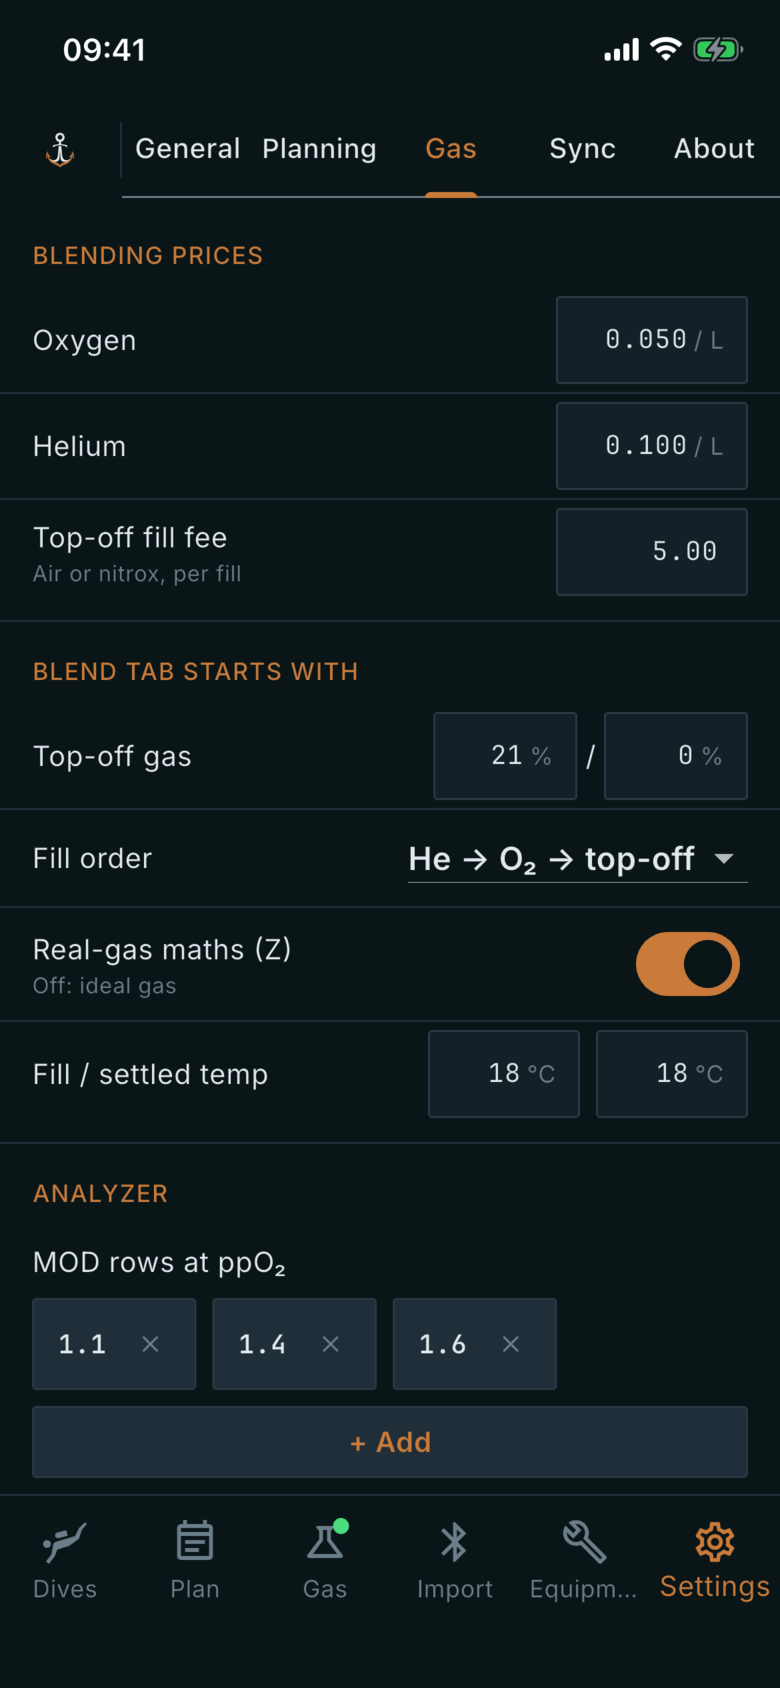
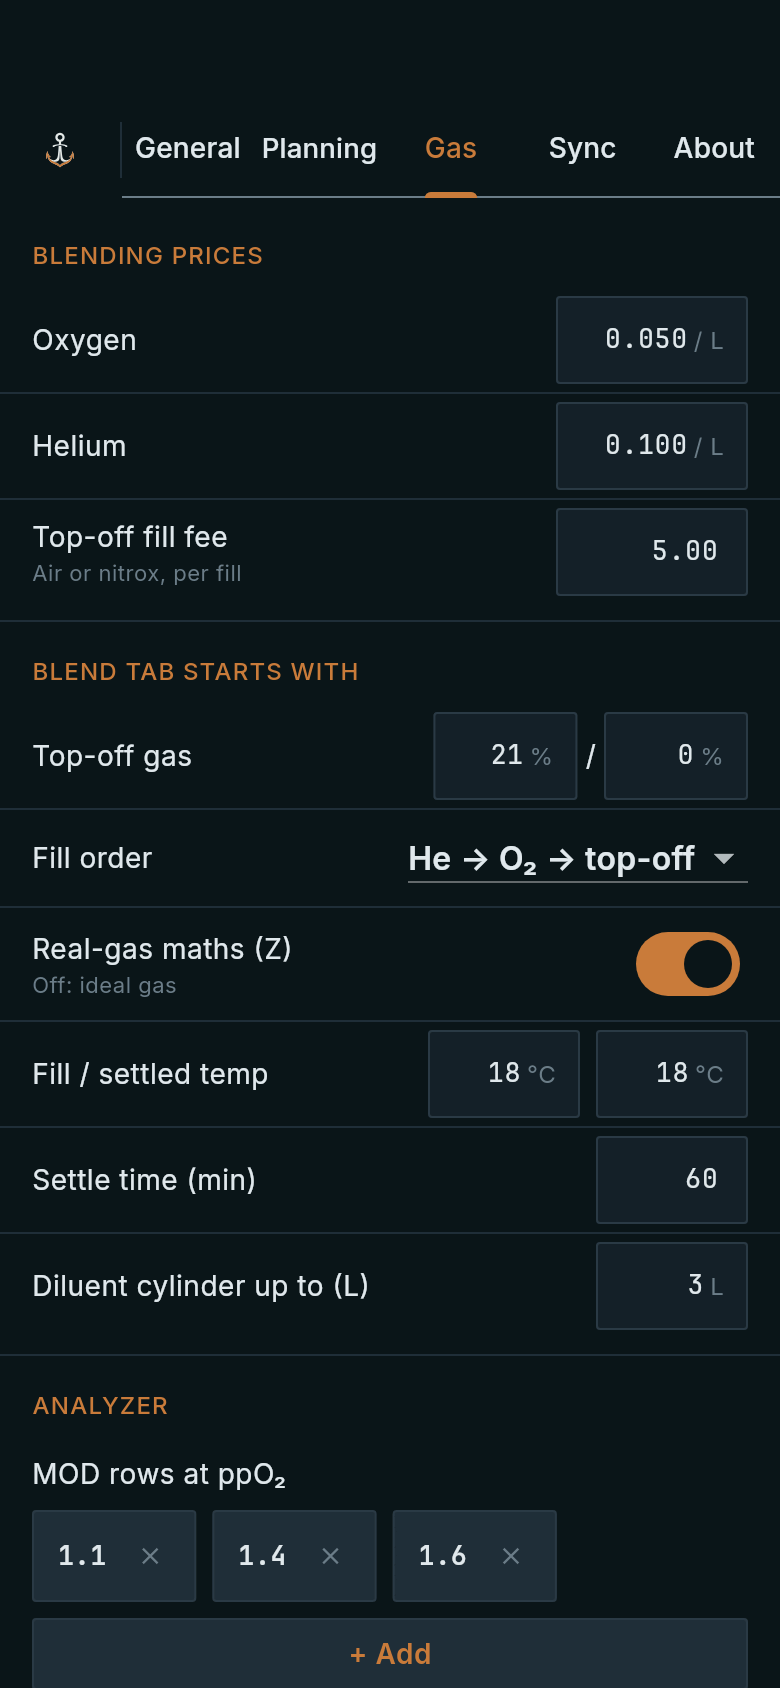
chore(release): 1.2.0, with the Gas settings screenshots retaken (#271)
Bumps the version to 1.2.0+50 for the testers build.

The manual's Gas settings page gets two fresh screenshots (the old one
predated Settle time, Diluent cylinder and the Label printer section) and
a sheet of every label type at every size. The screenshots come from an
opt-in widget test, test/manual_screenshots, run with
--dart-define=MANUAL_SCREENSHOTS=true; a plain flutter test skips it.

diff --git a/test/manual_screenshots/settings_gas_screenshot_test.dart b/test/manual_screenshots/settings_gas_screenshot_test.dart
@@ -1,0 +1,140 @@
+// Renders the user-manual screenshots of Settings -> Gas from a widget test,
+// for when no iPhone simulator is at hand (Linux CI, a machine without a Mac).
+//
+// Skipped unless opted in, so a plain `flutter test` writes no files:
+//
+//   flutter test test/manual_screenshots \
+//     --dart-define=MANUAL_SCREENSHOTS=true
+//
+// Writes docs/user/images/settings-gas-1.png (top of the tab) and
+// settings-gas-2.png (Analyzer and the whole Label printer section), at
+// 390 x 844 logical px, 2x, with the app's real fonts and default dark theme.
+// The Label printer section is shown without a printer, so it reads
+// "No printer set up". There is no status bar or bottom navigation.
+import 'dart:io';
+import 'dart:ui' as ui;
+
+import 'package:ccrlogger/label_printer/label_printer.dart';
+import 'package:ccrlogger/labels/label_print_service.dart';
+import 'package:ccrlogger/ui/notifiers/settings_notifier.dart';
+import 'package:ccrlogger/ui/screens/settings/gas_tab.dart';
+import 'package:ccrlogger/ui/screens/settings_screen.dart';
+import 'package:ccrlogger/ui/theme/app_themes.dart';
+import 'package:ccrlogger/ui/widgets/label_printer_settings_section.dart';
+import 'package:flutter/material.dart';
+import 'package:flutter/rendering.dart';
+import 'package:flutter/services.dart';
+import 'package:flutter_test/flutter_test.dart';
+import 'package:shared_preferences/shared_preferences.dart';
+
+const _enabled = bool.fromEnvironment('MANUAL_SCREENSHOTS');
+const _outDir = 'docs/user/images';
+
+/// iPhone 14 / 15 logical size and top safe area.
+const _size = Size(390, 844);
+const _topInset = 47.0;
+const _pixelRatio = 2.0;
+
+class _NoScanner implements LabelPrinterScanner {
+  @override
+  Stream<List<FoundLabelPrinter>> scan({
+    Duration timeout = const Duration(seconds: 10),
+  }) => const Stream.empty();
+
+  @override
+  Future<void> stop() async {}
+}
+
+Future<void> _loadFonts() async {
+  for (final (family, asset) in [
+    ('Inter', 'fonts/Inter-VariableFont.ttf'),
+    // Text without a font family (the tab labels) falls back to Roboto,
+    // which flutter_test maps to boxes. On an iPhone it is the system font;
+    // Inter is the nearest thing the app ships.
+    ('Roboto', 'fonts/Inter-VariableFont.ttf'),
+    ('JetBrainsMono', 'fonts/JetBrainsMono-VariableFont.ttf'),
+  ]) {
+    await (FontLoader(family)..addFont(rootBundle.load(asset))).load();
+  }
+  // The test asset bundle carries the Material icon font when
+  // uses-material-design is on.
+  await (FontLoader('MaterialIcons')
+        ..addFont(rootBundle.load('fonts/MaterialIcons-Regular.otf')))
+      .load();
+}
+
+void main() {
+  // Opt-in tool, not a check: skipped unless MANUAL_SCREENSHOTS is defined.
+  testWidgets('Settings -> Gas manual screenshots', (tester) async {
+    await _loadFonts();
+    SharedPreferences.setMockInitialValues({});
+    final settings = SettingsNotifier();
+    await settings.load();
+    final labels = LabelPrintService(
+      render: (label, size, rotate) => throw UnimplementedError(),
+      printerFor: (id) => throw UnimplementedError(),
+      scanner: _NoScanner(),
+      printerId: () => null,
+      use14ForDeeperMixes: () => settings.labelUse14ForDeeperMixes,
+    );
+
+    tester.view
+      ..physicalSize = _size * _pixelRatio
+      ..devicePixelRatio = _pixelRatio;
+    addTearDown(tester.view.reset);
+
+    final boundary = GlobalKey();
+    await tester.pumpWidget(
+      RepaintBoundary(
+        key: boundary,
+        child: MaterialApp(
+          debugShowCheckedModeBanner: false,
+          theme: AppThemes.byId(null).themeData,
+          builder: (context, child) => MediaQuery(
+            data: MediaQuery.of(
+              context,
+            ).copyWith(padding: const EdgeInsets.only(top: _topInset)),
+            child: child!,
+          ),
+          home: SettingsScreen(
+            notifier: settings,
+            onHome: () {},
+            labelPrinting: labels,
+          ),
+        ),
+      ),
+    );
+    await tester.tap(find.byKey(const ValueKey('settings-tab-gas')));
+    await tester.pumpAndSettle();
+
+    Future<void> shoot(String name) => tester.runAsync(() async {
+      final obj =
+          boundary.currentContext!.findRenderObject()! as RenderRepaintBoundary;
+      final image = await obj.toImage(pixelRatio: _pixelRatio);
+      final bytes = await image.toByteData(format: ui.ImageByteFormat.png);
+      File('$_outDir/$name').writeAsBytesSync(bytes!.buffer.asUint8List());
+    });
+
+    await shoot('settings-gas-1.png');
+
+    // The tab is a lazy list: scroll to its end so the Label printer section
+    // is built.
+    final list = find
+        .descendant(
+          of: find.byType(GasSettingsTab),
+          matching: find.byType(Scrollable),
+        )
+        .first;
+    await tester.drag(list, const Offset(0, -5000));
+    await tester.pumpAndSettle();
+    // Then back up until the Label printer section ends at the bottom edge,
+    // so the Analyzer rows above it stay in view.
+    await Scrollable.ensureVisible(
+      tester.element(find.byType(LabelPrinterSettingsSection)),
+      alignment: 1,
+    );
+    await tester.pumpAndSettle();
+    await shoot('settings-gas-2.png');
+    expect(tester.takeException(), isNull);
+  }, skip: !_enabled);
+}

diff --git a/docs/user/settings-gas.md b/docs/user/settings-gas.md
@@ -3,6 +3,7 @@
 Where: **Settings** tab, **Gas** sub-tab.
 
 ![The Gas settings with blending prices, blend tab defaults and analyzer MOD rows](images/settings-gas-1.png)
+![The same tab scrolled: the analyzer rows and the Label printer section with no printer set up, the label size and OC working ppO₂](images/settings-gas-2.png)
 
 ## What it's for
 
@@ -19,7 +20,7 @@ Defaults for blending and analysing gas: what your fills cost, what a new blend 
   - **Settle time (min)**: how long a fill needs to settle before you analyse it. Open blends turn red, orange and green against it. It starts at 60 and takes 0 to 1440 minutes.
   - **Diluent cylinder up to (L)**: a cylinder with this water capacity or less, and at most 32% oxygen, is guessed as diluent on the Blend tab. It starts at 3 and takes 0.5 to 50 litres.
 - **Analyzer**: **MOD rows at ppO₂** lists the ppO₂ values for which the analyzer shows a maximum operating depth. Remove one with its cross (the last one stays), or tap **+ Add** and enter a ppO₂ in bar. **Fill pressure starts at** sets the pressure a new analysis begins with, in bar.
-- **Label printer**: appears where label printing is available. It shows the saved printer, or **No printer set up**, with **Find printer**, **Print test label** and **Forget printer**. Below them:
+- **Label printer**: appears where label printing is available. It shows the saved printer, or **No printer set up**, with **Find printer** and **Print test label**. **Print test label** works once a printer is saved, and **Forget printer** appears then. Below them:
   - **Label size**: the size of the labels in the printer, one of **50 × 30 mm**, **40 × 30 mm**, **50 × 50 mm** and **50 × 80 mm** (width × length). Every label you print is drawn for this size.
   - **Rotate centre on 50 × 80**: shown only for the 50 × 80 mm size. It turns the big depth 90° counterclockwise (it reads from the bottom up) so it can be larger. Off by default.
   - **Use 1.4 for deeper mixes**: bailout and deco labels show the depth at ppO₂ 1.4 for mixes below 50 % O₂. Off: 1.6 for all.
@@ -32,3 +33,7 @@ Defaults for blending and analysing gas: what your fills cost, what a new blend 
 - The **40 × 30 mm** label is printed centred under the print head. That has not been checked on a printer yet; if the print sits against one side, tell us.
 - A **Backgas** label shows an **OC** tag and the depth at the **OC working ppO₂** as the big number, with the MOD at ppO₂ 1.6 below it. Bailout and deco labels show one big MOD; diluent labels show **DIL** and three depths.
 - The prices carry no currency; they are just numbers you choose.
+
+Every label type at every size, left to right 50 × 30, 40 × 30, 50 × 50, 50 × 80 and 50 × 80 rotated; top to bottom bailout, diluent and Backgas (OC):
+
+![Bailout, diluent and Backgas labels at each of the four sizes, and 50 × 80 rotated](images/label-sizes.png)
